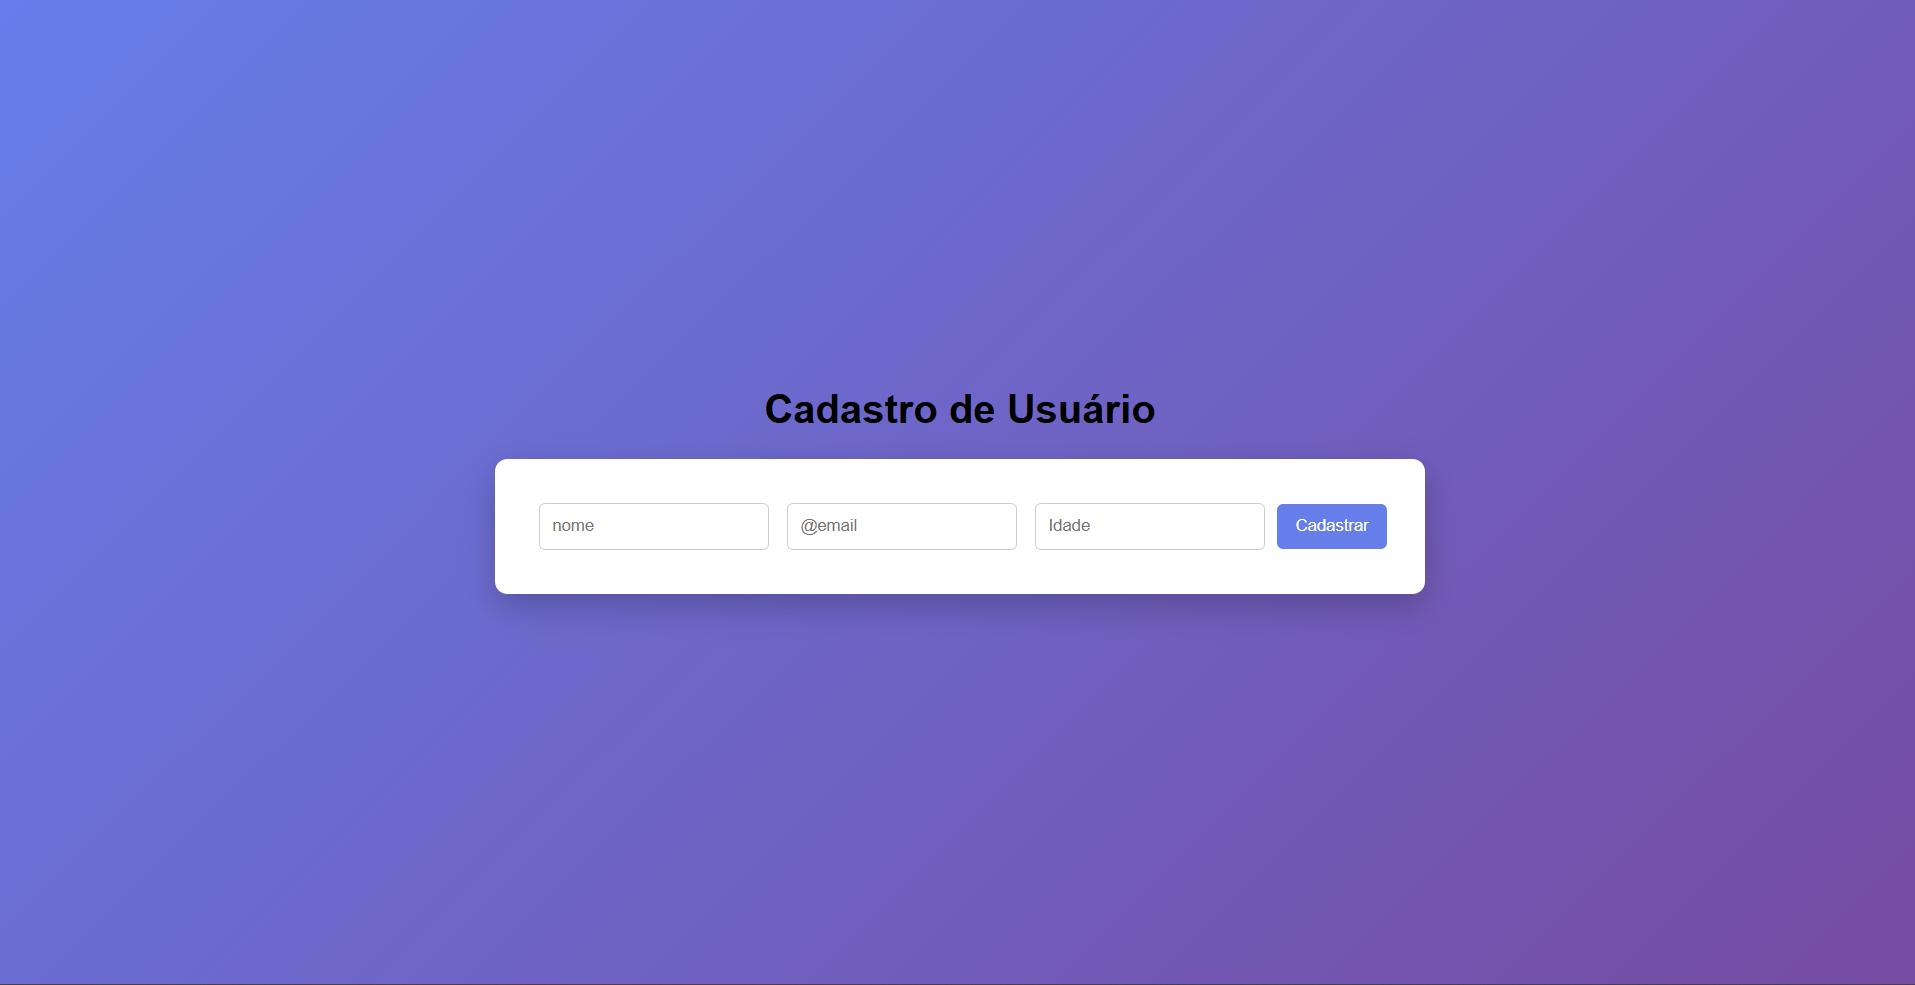
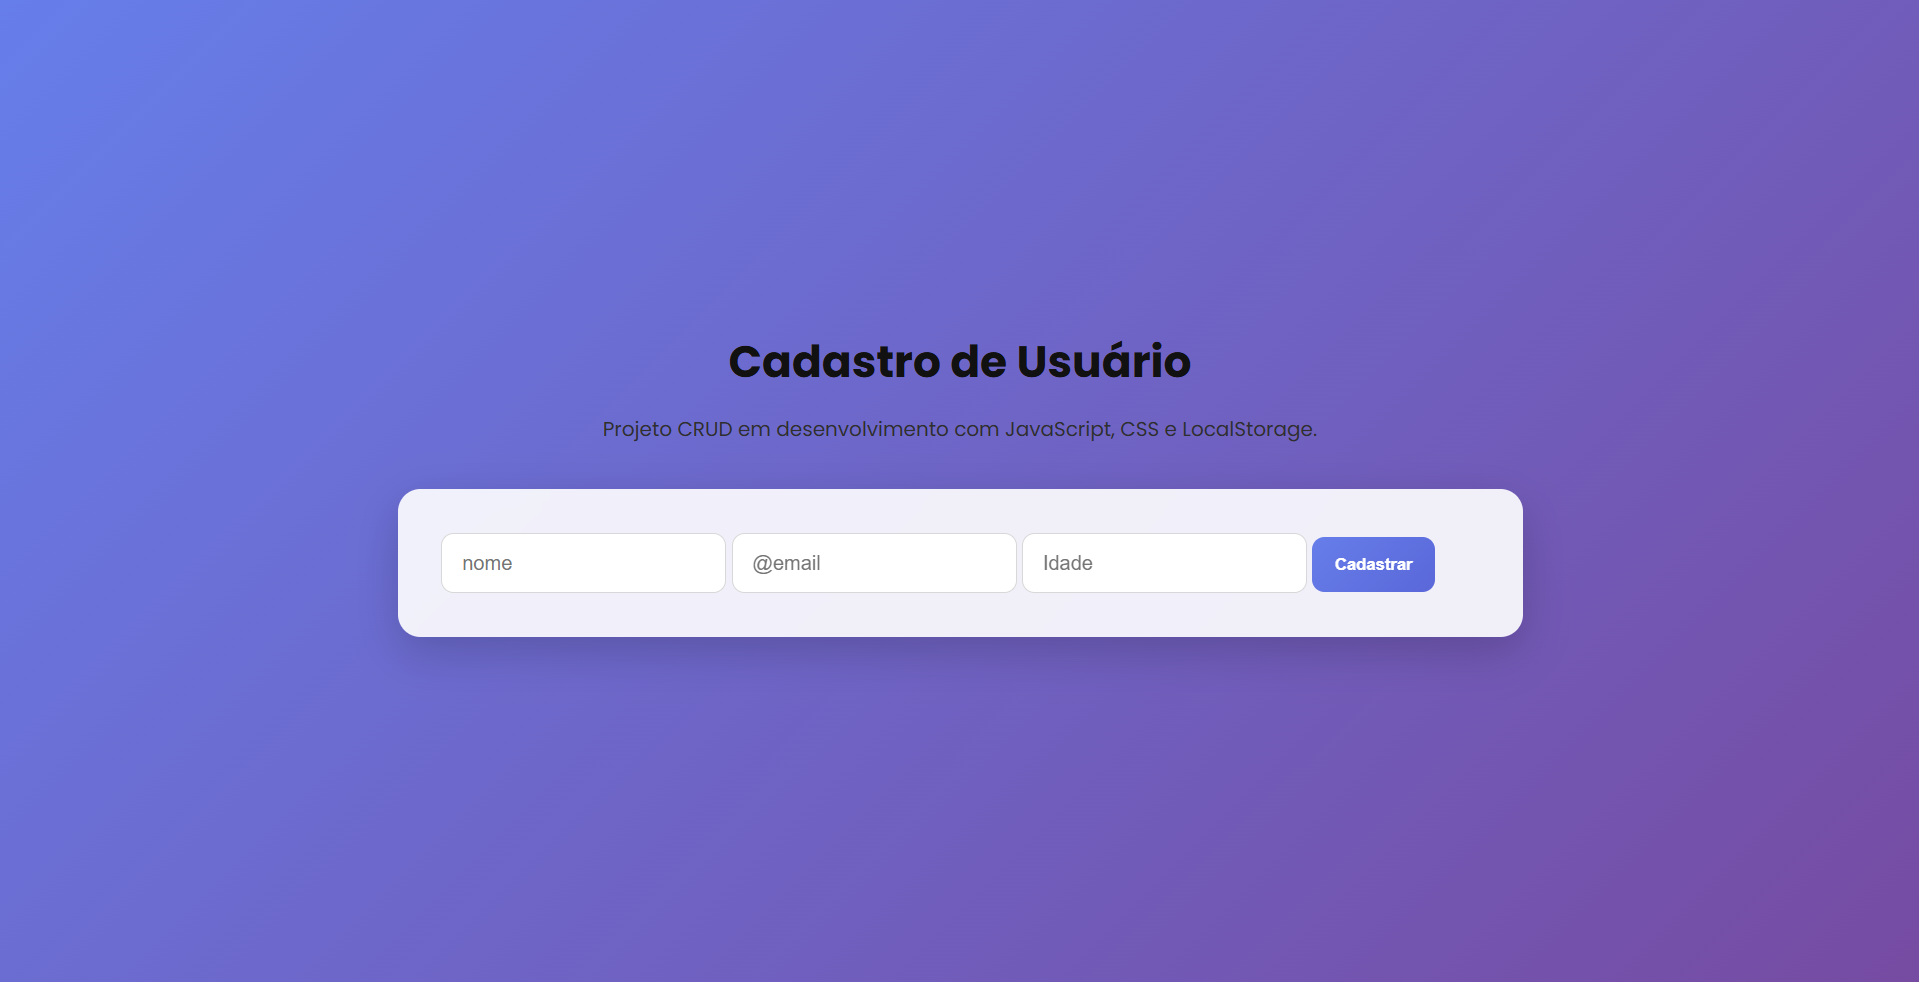
upd01

Changed region(s): [[0.1849, 0.336, 0.801, 0.6721]]

diff --git a/css/style.css b/css/style.css
@@ -6,56 +6,104 @@ body{
     align-items:center;
     flex-direction:column;
     background: linear-gradient(135deg, #667eea, #764ba2);
-    font-family: Arial, Helvetica, sans-serif;
+    font-family: "Poppins", sans-serif;
+}
+h1{
+    font-size: 2.2rem;
+    margin-bottom: 24px;
+    color: #111;
+    text-align: center;
+    margin-bottom: 24px;
+}
+main{
+    width: 100%;
+    max-width: 900px;
+    padding: 20px;
+}
+.subtitulo{
+    color: #2f2f2f;
+    font-size: 1rem;
+    margin-top: -8px;
 }
 .container{
-    background:white;
-    padding:30px;
-    border-radius:10px;
-    box-shadow:0 10px 25px rgba(0,0,0,0.2);
+    background: rgba(255, 255, 255, 0.9);
+    padding: 35px;
+    border-radius: 18px;
+    box-shadow: 0 12px 35px rgba(0, 0, 0, 0.18);
+    backdrop-filter: blur(8px);
 }
 #inputnome,
 #inputemail,
 #inputidade{
-    padding:10px;
-    margin:5px;
-    border-radius:5px;
-    border:1px solid #ccc;
+    padding: 14px 16px;
+    border-radius: 10px;
+    border: 1px solid #d8d8d8;
+    outline: none;
+    transition: 0.3s;
+    font-size: 1rem;
+}
+
+#inputnome:focus,
+#inputemail:focus,
+#inputidade:focus{
+    border-color: #667eea;
+    box-shadow: 0 0 0 4px rgba(102, 126, 234, 0.15);
 }
 #cadastro{
-    padding:10px 15px;
-    border:none;
-    border-radius:5px;
-    background:#667eea;
-    color:white;
-    cursor:pointer;
-    transition: 0.3s;
+    padding: 14px 18px;
+    border: none;
+    border-radius: 10px;
+    background: linear-gradient(135deg, #667eea, #5a67d8);
+    color: white;
+    font-weight: 600;
+    cursor: pointer;
+    transition: all 0.3s ease;
 }
 #cadastro:hover{
-    background:#5566d6;
-    transform: scale(1.05);
+    transform: translateY(-2px);
+    box-shadow: 0 8px 18px rgba(102, 126, 234, 0.35);
 }
 #mensagens{
     margin-top:20px;
 }
-
 #msg{
     display: none;
-    padding: 12px;
-    border-radius: 8px;
+    margin-top: 18px;
+    padding: 14px 18px;
+    border-radius: 12px;
     text-align: center;
-    font-weight: bold;
-    margin-top: 10px;
-    transition: 0.3s;
+    font-weight: 600;
+    box-shadow: 0 8px 20px rgba(0,0,0,0.12);
 }
 #msg.ativo{
     display: block;
 }
 #msg.erro{
-    background: #e74c3c;
-    color: white;
+    background: #ffe5e5;
+    color: #c0392b;
+    border: 1px solid #f5b7b1;
 }
 #msg.sucesso{
-    background: #2ecc71;
-    color: white;
+    background: #e8fff1;
+    color: #1e8449;
+    border: 1px solid #a9dfbf;
+}
+@media (max-width: 768px){
+    .container{
+        display: flex;
+        flex-direction: column;
+        gap: 12px;
+    }
+    #inputnome,
+    #inputemail,
+    #inputidade,
+    #cadastro{
+        width: 100%;
+    }
+    h1{
+        font-size: 2.2rem;
+    }
+}
+#lista-usuarios{
+    display: none;
 }

diff --git a/index.html b/index.html
@@ -5,10 +5,15 @@
     <meta name="viewport" content="width=device-width, initial-scale=1.0">
     <title>Cadastro Unificado</title>
     <link rel="stylesheet" href="css/style.css">
+    <link rel="preconnect" href="https://fonts.googleapis.com">
+    <link rel="preconnect" href="https://fonts.gstatic.com" crossorigin>
+    <link href="https://fonts.googleapis.com/css2?family=Poppins:wght@400;600;700&display=swap" rel="stylesheet">
+
 </head>
 <body>
     <header>
         <h1>Cadastro de Usuário</h1>
+        <p class="subtitulo">Projeto CRUD em desenvolvimento com JavaScript, CSS e LocalStorage.</p>
     </header>
     <main>
         <section class="container" id="cadastramento">
@@ -19,6 +24,9 @@
         </section>
         <section id="mensagens">
             <div id="msg"></div>
+        </section>
+        <section class="container" id="lista-usuarios">
+            <h2>Usuários cadastrados</h2>
         </section>
     </main>
     <script src="js/script.js"></script>
